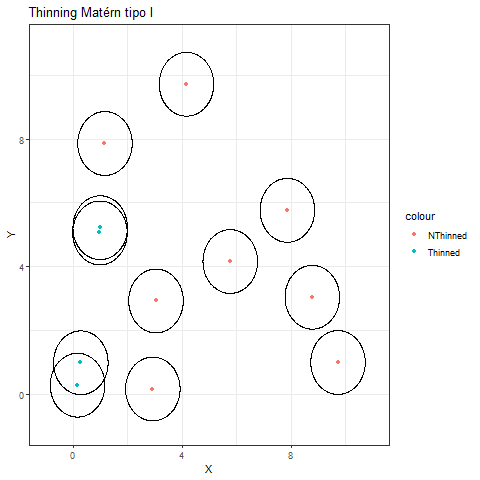
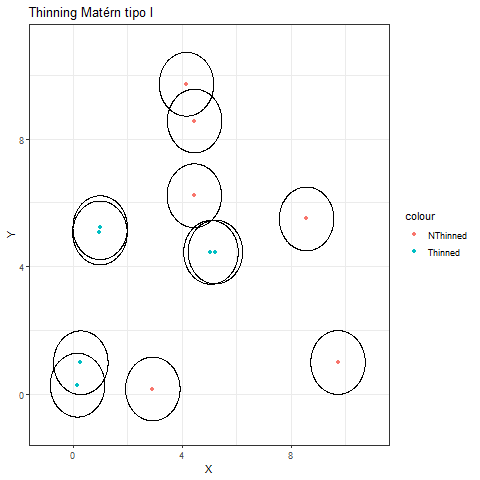
Atualização
Maior número de pontos.

diff --git a/js/matern1.js b/js/matern1.js
@@ -2,10 +2,11 @@
     $(document).ready(function() {
 	
 	$('#matern1').scianimator({
-	    'images': ['images/matern11.png', 'images/matern12.png', 'images/matern13.png', 'images/matern14.png', 'images/matern15.png', 'images/matern16.png', 'images/matern17.png', 'images/matern18.png', 'images/matern19.png', 'images/matern110.png', 'images/matern111.png', 'images/matern112.png', 'images/matern113.png', 'images/matern114.png', 'images/matern115.png', 'images/matern116.png', 'images/matern117.png', 'images/matern118.png', 'images/matern119.png', 'images/matern120.png', 'images/matern121.png', 'images/matern122.png', 'images/matern123.png'],
+	    'images': ['images/matern11.png', 'images/matern12.png', 'images/matern13.png', 'images/matern14.png', 'images/matern15.png', 'images/matern16.png', 'images/matern17.png', 'images/matern18.png', 'images/matern19.png', 'images/matern110.png', 'images/matern111.png', 'images/matern112.png', 'images/matern113.png', 'images/matern114.png', 'images/matern115.png', 'images/matern116.png', 'images/matern117.png', 'images/matern118.png', 'images/matern119.png', 'images/matern120.png', 'images/matern121.png', 'images/matern122.png', 'images/matern123.png', 'images/matern124.png', 'images/matern125.png', 'images/matern126.png', 'images/matern127.png', 'images/matern128.png', 'images/matern129.png', 'images/matern130.png', 'images/matern131.png', 'images/matern132.png', 'images/matern133.png', 'images/matern134.png', 'images/matern135.png', 'images/matern136.png', 'images/matern137.png', 'images/matern138.png', 'images/matern139.png', 'images/matern140.png', 'images/matern141.png', 'images/matern142.png', 'images/matern143.png', 'images/matern144.png', 'images/matern145.png', 'images/matern146.png', 'images/matern147.png', 'images/matern148.png', 'images/matern149.png', 'images/matern150.png', 'images/matern151.png', 'images/matern152.png', 'images/matern153.png', 'images/matern154.png', 'images/matern155.png', 'images/matern156.png', 'images/matern157.png', 'images/matern158.png', 'images/matern159.png', 'images/matern160.png', 'images/matern161.png', 'images/matern162.png', 'images/matern163.png', 'images/matern164.png', 'images/matern165.png', 'images/matern166.png', 'images/matern167.png', 'images/matern168.png', 'images/matern169.png', 'images/matern170.png', 'images/matern171.png', 'images/matern172.png', 'images/matern173.png', 'images/matern174.png', 'images/matern175.png', 'images/matern176.png', 'images/matern177.png', 'images/matern178.png', 'images/matern179.png', 'images/matern180.png', 'images/matern181.png', 'images/matern182.png', 'images/matern183.png', 'images/matern184.png', 'images/matern185.png', 'images/matern186.png', 'images/matern187.png', 'images/matern188.png', 'images/matern189.png', 'images/matern190.png', 'images/matern191.png', 'images/matern192.png', 'images/matern193.png', 'images/matern194.png', 'images/matern195.png', 'images/matern196.png', 'images/matern197.png', 'images/matern198.png', 'images/matern199.png', 'images/matern1100.png', 'images/matern1101.png', 'images/matern1102.png', 'images/matern1103.png', 'images/matern1104.png', 'images/matern1105.png', 'images/matern1106.png', 'images/matern1107.png', 'images/matern1108.png', 'images/matern1109.png', 'images/matern1110.png', 'images/matern1111.png', 'images/matern1112.png', 'images/matern1113.png', 'images/matern1114.png', 'images/matern1115.png', 'images/matern1116.png', 'images/matern1117.png', 'images/matern1118.png', 'images/matern1119.png', 'images/matern1120.png', 'images/matern1121.png', 'images/matern1122.png', 'images/matern1123.png', 'images/matern1124.png', 'images/matern1125.png', 'images/matern1126.png', 'images/matern1127.png', 'images/matern1128.png', 'images/matern1129.png', 'images/matern1130.png', 'images/matern1131.png', 'images/matern1132.png', 'images/matern1133.png', 'images/matern1134.png', 'images/matern1135.png', 'images/matern1136.png', 'images/matern1137.png', 'images/matern1138.png', 'images/matern1139.png', 'images/matern1140.png', 'images/matern1141.png', 'images/matern1142.png', 'images/matern1143.png', 'images/matern1144.png', 'images/matern1145.png', 'images/matern1146.png', 'images/matern1147.png', 'images/matern1148.png', 'images/matern1149.png', 'images/matern1150.png', 'images/matern1151.png', 'images/matern1152.png', 'images/matern1153.png', 'images/matern1154.png', 'images/matern1155.png', 'images/matern1156.png', 'images/matern1157.png', 'images/matern1158.png', 'images/matern1159.png', 'images/matern1160.png', 'images/matern1161.png', 'images/matern1162.png', 'images/matern1163.png', 'images/matern1164.png', 'images/matern1165.png', 'images/matern1166.png', 'images/matern1167.png', 'images/matern1168.png', 'images/matern1169.png', 'images/matern1170.png', 'images/matern1171.png', 'images/matern1172.png', 'images/matern1173.png', 'images/matern1174.png', 'images/matern1175.png', 'images/matern1176.png', 'images/matern1177.png', 'images/matern1178.png', 'images/matern1179.png', 'images/matern1180.png', 'images/matern1181.png', 'images/matern1182.png', 'images/matern1183.png', 'images/matern1184.png', 'images/matern1185.png', 'images/matern1186.png', 'images/matern1187.png', 'images/matern1188.png', 'images/matern1189.png', 'images/matern1190.png', 'images/matern1191.png', 'images/matern1192.png', 'images/matern1193.png', 'images/matern1194.png', 'images/matern1195.png', 'images/matern1196.png', 'images/matern1197.png', 'images/matern1198.png', 'images/matern1199.png', 'images/matern1200.png', 'images/matern1201.png', 'images/matern1202.png', 'images/matern1203.png', 'images/matern1204.png', 'images/matern1205.png', 'images/matern1206.png', 'images/matern1207.png', 'images/matern1208.png', 'images/matern1209.png', 'images/matern1210.png', 'images/matern1211.png', 'images/matern1212.png', 'images/matern1213.png', 'images/matern1214.png', 'images/matern1215.png', 'images/matern1216.png', 'images/matern1217.png', 'images/matern1218.png', 'images/matern1219.png', 'images/matern1220.png', 'images/matern1221.png', 'images/matern1222.png', 'images/matern1223.png', 'images/matern1224.png', 'images/matern1225.png', 'images/matern1226.png', 'images/matern1227.png', 'images/matern1228.png', 'images/matern1229.png', 'images/matern1230.png'],
 	    'width': 480,
 	    'delay': 1000,
-	    'loopMode': 'loop'
+	    'loopMode': 'loop',
+ 'controls': ['first', 'previous', 'play', 'next', 'last', 'loop', 'speed']
 	});
 	$('#matern1').scianimator('play');
     });

diff --git a/index.html b/index.html
@@ -20,8 +20,8 @@
 	<div class="scianimator"><div id="matern1" style="display: inline-block;"></div></div>
 	<div class="scianimator" style="width: 480px; text-align: left"><pre><code class="r">## Animations generated in R version 3.4.1 (2017-06-30)
 ##   using the package animation
-library(animation)
 library(ggforce)
+library(animation)
 library(gganimate)
 library(forcats)
 library(stringr)
@@ -39,7 +39,7 @@ library(spatstat.data)
 ani.replay()
 ## R version 3.4.1 (2017-06-30)
 ## Platform: x86_64-w64-mingw32/x64 (64-bit)
-## Other packages: animation 2.5, ggforce 0.1.3, gganimate 1.0.0, forcats 0.2.0,
+## Other packages: ggforce 0.1.3, animation 2.5, gganimate 1.0.0, forcats 0.2.0,
 ## stringr 1.2.0, dplyr 0.7.4, purrr 0.2.4, readr 1.1.1, tidyr 0.7.2, tibble 1.4.2,
 ## ggplot2 3.1.0, tidyverse 1.2.1, spatstat 1.58-2, rpart 4.1-11, nlme 3.1-131,
 ## spatstat.data 1.4-0</code></pre></div>
